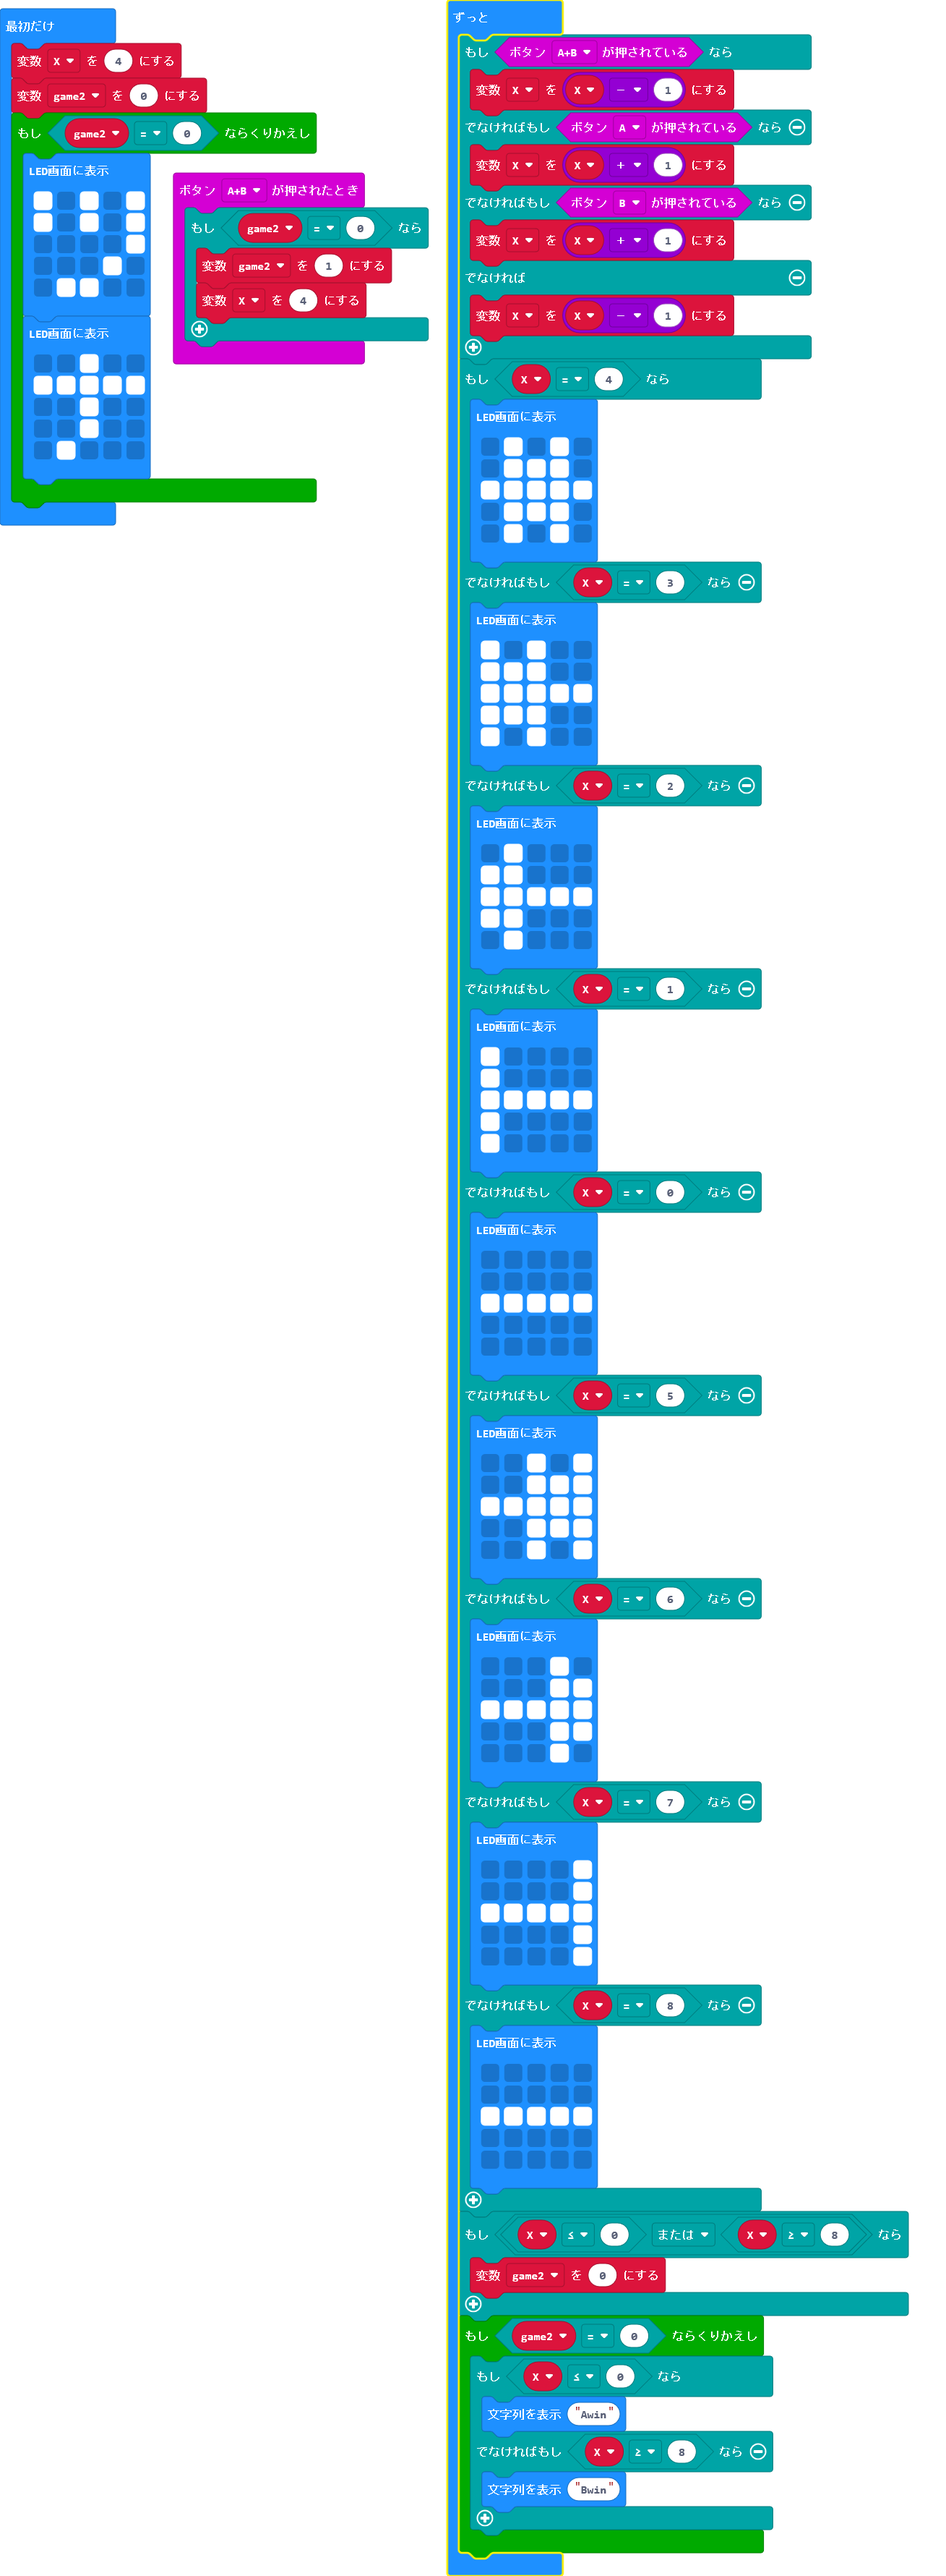
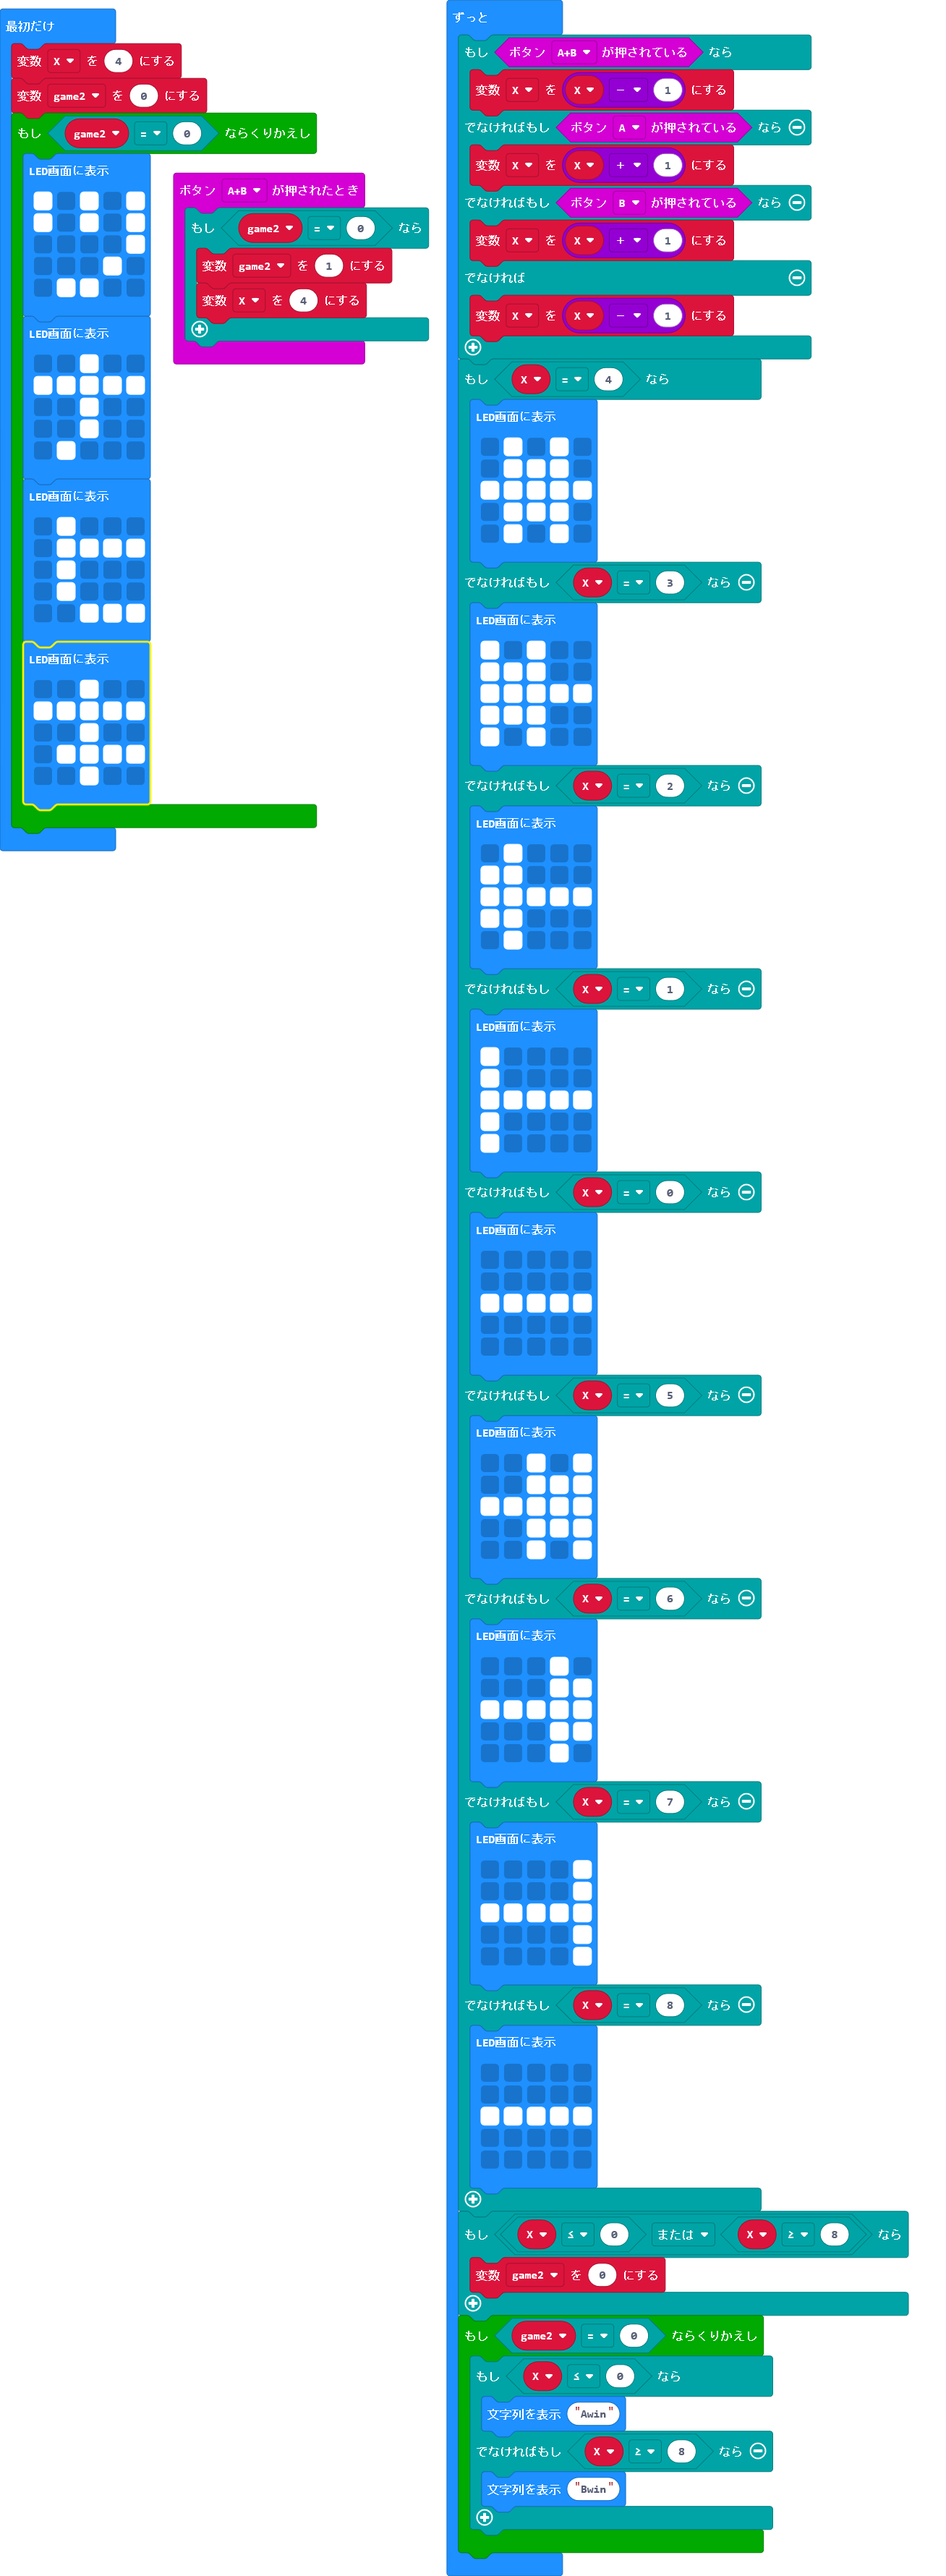
ツナヒキと表示するようにした

diff --git a/main.ts b/main.ts
@@ -23,6 +23,20 @@ while (game2 == 0) {
         . . # . .
         . # . . .
         `)
+    basic.showLeds(`
+        . # . . .
+        . # # # #
+        . # . . .
+        . # . . .
+        . . # # #
+        `)
+    basic.showLeds(`
+        . . # . .
+        # # # # #
+        . . # . .
+        . # # # #
+        . . # . .
+        `)
 }
 basic.forever(function () {
     if (input.buttonIsPressed(Button.AB)) {
